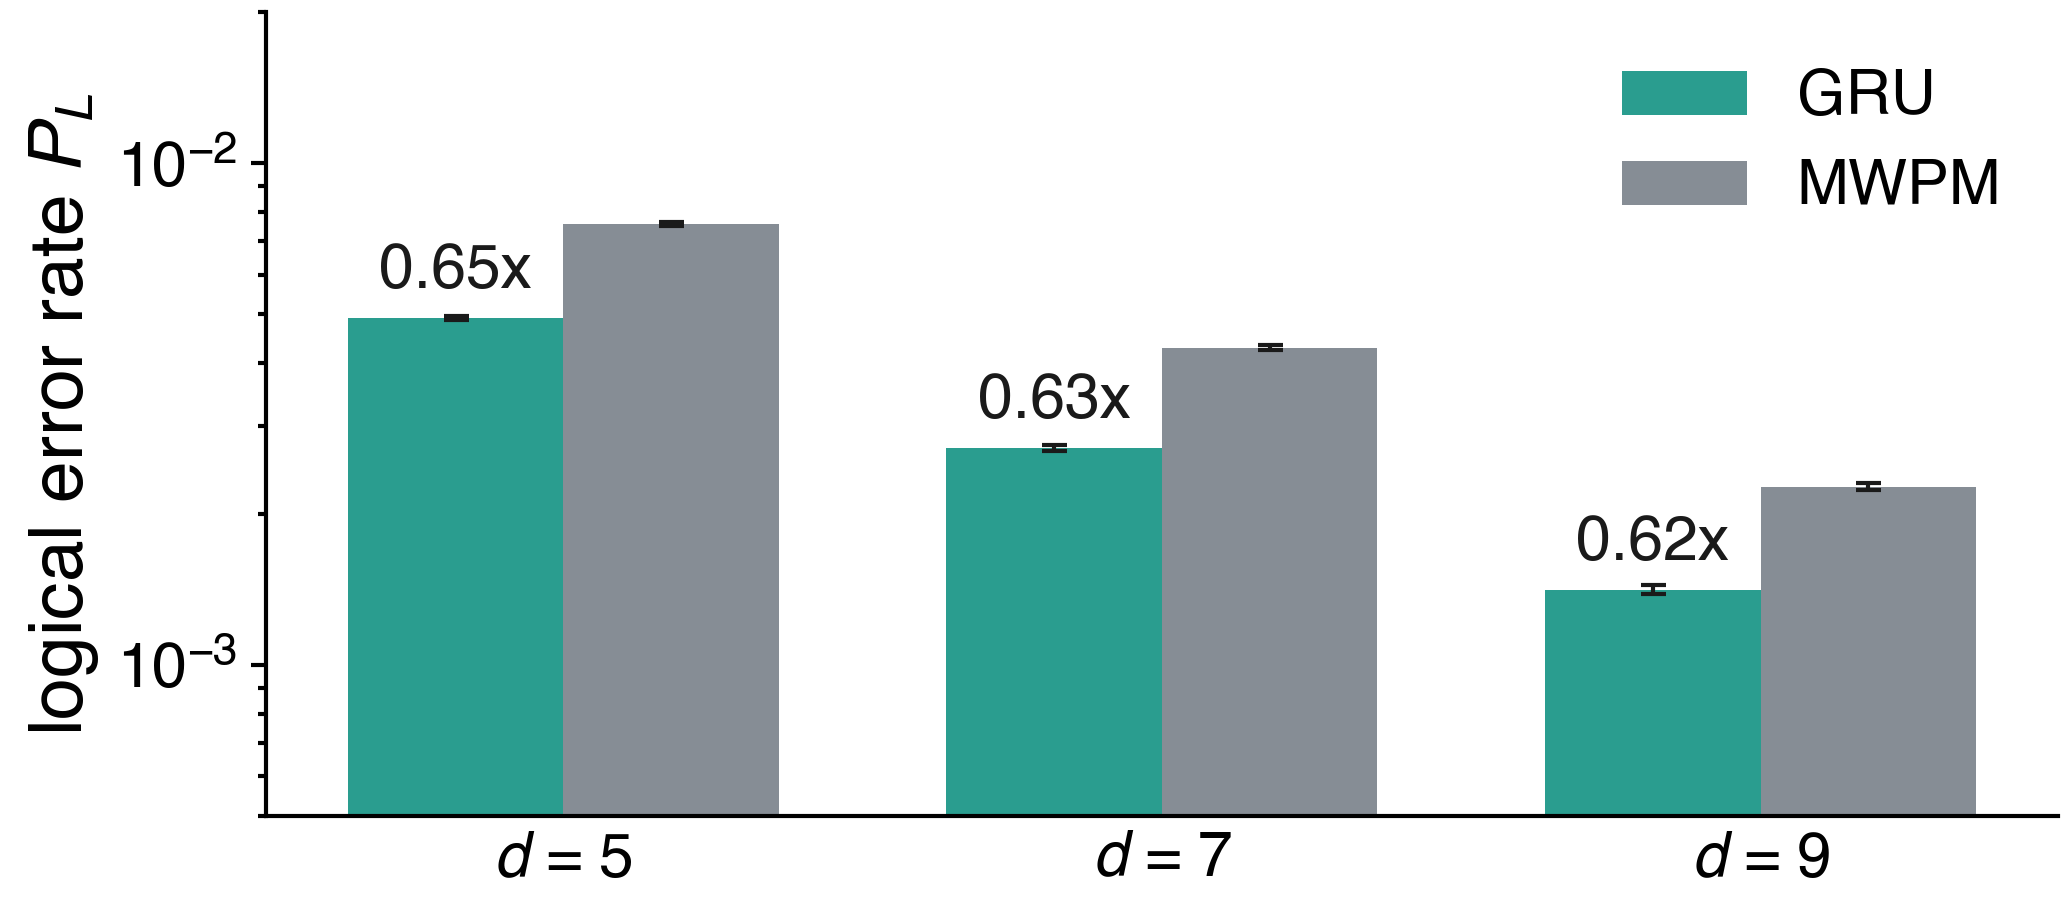
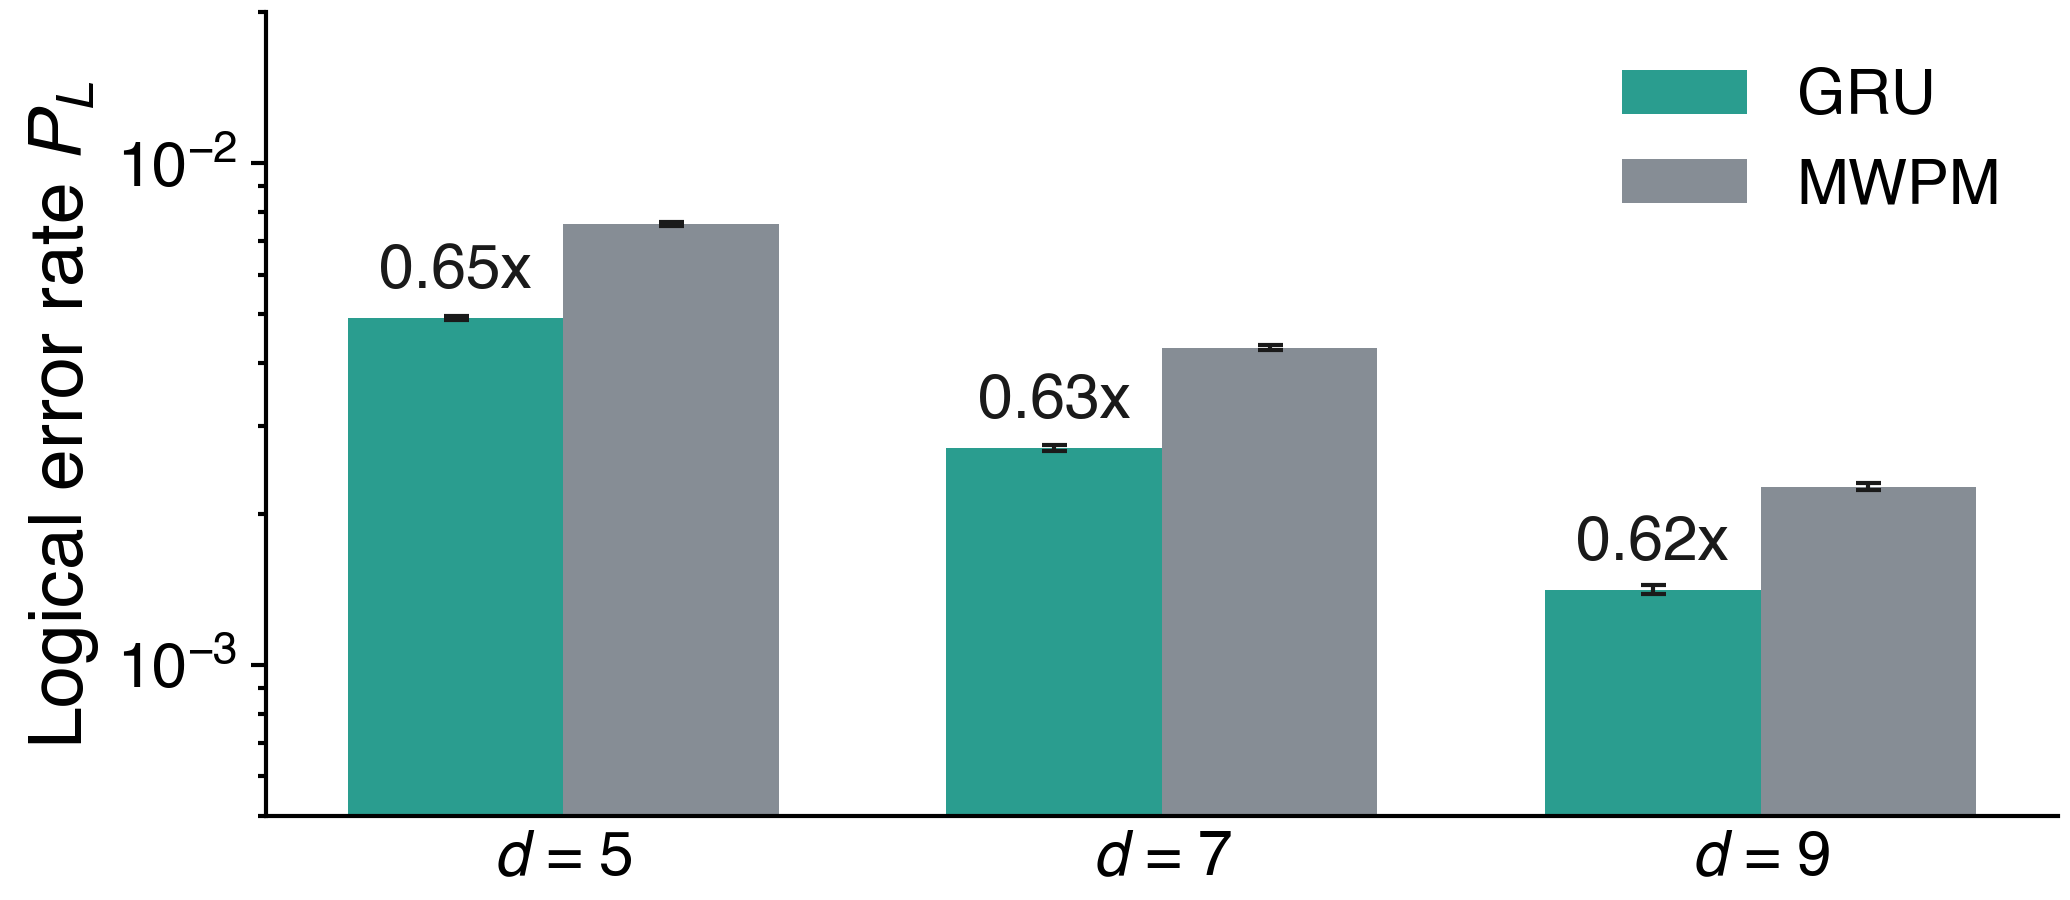
Poster figures: sentence-case axis labels; fig7 small-panel fonts and same-size bracket

diff --git a/figures/fig7_depth.py b/figures/fig7_depth.py
@@ -1,5 +1,5 @@
 # Created: 2026-10-28
-# Last modified: 2026-10-28
+# Last modified: 2026-10-28 (small-panel font sizes, same-size bracket, MWPM label left, sentence-case labels)
 # Poster version of depth_scaling.py: d = 7, p = 0.004, u70 stacks L = 1-10 and the single-layer
 # u172 / u255 runs matched to L = 4 / 8 in parameters. Eval-block ratios to MWPM on the same shots.
 #   python figures/fig7_depth.py
@@ -20,6 +20,8 @@ L1_PARAMS, PER_LAYER = 25061, 29610   # u70 stack at d = 7
 MATCH_OFFSET = 0.3                    # matched squares drawn just right of their L
 FRAME_IN = (4.5, 3.0)
 MARKER_MS = 6
+LABEL_PT, TICK_PT, NOTE_PT = 13, 11, 11   # smaller than poster_style: this panel is 4.5 in wide
+BRACKET_X = 8.62
 
 
 def load():
@@ -42,20 +44,22 @@ def plot(rows):
         x = r["L"] + MATCH_OFFSET
         ax.errorbar(x, r["ratio"], yerr=r["err"], fmt="s", ms=MARKER_MS + 1, mfc="white", mew=1.5,
                     color=poster_style.NEUTRAL, elinewidth=1, zorder=3)
-        ax.annotate(r["Width"], (x, r["ratio"]), xytext=(6, 0), textcoords="offset points",
-                    va="center", color=poster_style.NEUTRAL, fontsize=poster_style.CURVE_LABEL_PT)
+        # upper left of the square: above it would touch the MWPM line, right of u255 is the bracket
+        ax.annotate(r["Width"], (x, r["ratio"]), xytext=(-MARKER_MS, 1), textcoords="offset points",
+                    ha="right", va="bottom", color=poster_style.NEUTRAL, fontsize=NOTE_PT)
 
     l8 = next(r for r in stack if r["L"] == 8)
     u255 = next(r for r in rows if r["Width"] == "u255")
-    # the L = 8 / u255 gap is too small to hold text, so the label sits above with an arrow into it
-    ax.annotate("deep beats wide\nat equal parameters", (8 + MATCH_OFFSET / 2, np.sqrt(l8["ratio"] * u255["ratio"])),
-                xytext=(7.4, 2.2), ha="center", va="center", fontsize=poster_style.CURVE_LABEL_PT,
-                color=poster_style.INK, linespacing=1.0,
-                arrowprops=dict(arrowstyle="-", color=poster_style.INK, lw=0.8, shrinkA=2, shrinkB=1))
+    tick = 0.1
+    ax.plot([BRACKET_X - tick, BRACKET_X, BRACKET_X, BRACKET_X - tick],
+            [l8["ratio"], l8["ratio"], u255["ratio"], u255["ratio"]], color=poster_style.INK, lw=0.8)
+    # centred on the bracket's upper half so the text clears the L = 9 marker below it
+    ax.text(BRACKET_X + 0.08, (l8["ratio"] * u255["ratio"] ** 3) ** 0.25, "same size", ha="left", va="center",
+            fontsize=NOTE_PT, color=poster_style.INK)
 
     ax.axhline(1.0, color=poster_style.INK, lw=0.8, ls="--", zorder=1)
-    ax.text(1.0, 1.0, "MWPM", transform=ax.get_yaxis_transform(), ha="right", va="bottom",
-            fontsize=poster_style.CURVE_LABEL_PT, color=poster_style.INK)
+    ax.annotate("MWPM", (0, 1.0), xycoords=ax.get_yaxis_transform(), xytext=(3, 1),
+                textcoords="offset points", ha="left", va="bottom", fontsize=NOTE_PT, color=poster_style.INK)
 
     ax.set_yscale("log")
     ax.set_ylim(0.6, 4.5)
@@ -66,11 +70,11 @@ def plot(rows):
     ax.set_xlim(0.5, 10.9)
     ax.set_xticks([1, 2, 4, 6, 8, 10])
     ax.set_xlabel("GRU layers $L$")
-    ax.set_ylabel("$P_L$ / MWPM")
+    ax.set_ylabel("Error ratio (GRU / MWPM)")
     top = ax.secondary_xaxis("top", functions=(lambda L: (L1_PARAMS + PER_LAYER * (L - 1)) / 1e3,
                                                lambda k: (k * 1e3 - L1_PARAMS) / PER_LAYER + 1))
     top.set_xticks([25, 100, 200, 290])
-    top.set_xlabel("parameters (thousands)")
+    top.set_xlabel("Parameters (k)")
     fig.tight_layout(pad=0.3)
     return fig
 
@@ -78,6 +82,7 @@ def plot(rows):
 if __name__ == "__main__":
     path, rows = load()
     poster_style.apply()
+    plt.rcParams.update({"axes.labelsize": LABEL_PT, "xtick.labelsize": TICK_PT, "ytick.labelsize": TICK_PT})
     fig = plot(rows)
     POSTER.mkdir(parents=True, exist_ok=True)
     fig.savefig(POSTER / "fig7_depth.png", dpi=300, facecolor="white")

diff --git a/figures/threshold_figure.py b/figures/threshold_figure.py
@@ -1,5 +1,5 @@
 # Created: 2026-10-27
-# Last modified: 2026-10-28 (finite-size scaling collapse inset, PNGs to figures/poster; curve labels instead of distance legend, DIST colours; poster style: Helvetica, 18/15 pt; distance palette; d9 p=0.003 star removed; fit lines clipped to each d's data range)
+# Last modified: 2026-10-28 (sentence-case axis labels; finite-size scaling collapse inset, PNGs to figures/poster; curve labels instead of distance legend, DIST colours; poster style: Helvetica, 18/15 pt; distance palette; d9 p=0.003 star removed; fit lines clipped to each d's data range)
 # Threshold figure: MWPM logical error rate vs p from the sinter sweep, GRU test-set results
 # as stars. Every point is a counted simulation result; the dashed fit lines are a guide only.
 #   python figures/threshold_figure.py
@@ -165,8 +165,8 @@ def plot(points, stars, a_fit, p_th):
     x_ticks = [0.001, 0.002, 0.004, 0.008, 0.015]
     ax.set_xticks(x_ticks)
     ax.set_xticklabels([f"{t:g}" for t in x_ticks])
-    ax.set_xlabel("physical error rate $p$")
-    ax.set_ylabel("logical error rate $P_L$")
+    ax.set_xlabel("Physical error rate $p$")
+    ax.set_ylabel("Logical error rate $P_L$")
     fig.tight_layout()
     return fig
 

diff --git a/figures/ratio_map.py b/figures/ratio_map.py
@@ -1,5 +1,5 @@
 # Created: 2026-10-28
-# Last modified: 2026-10-28
+# Last modified: 2026-10-28 (sentence-case axis labels)
 # GRU / MWPM logical error rate ratio over d x p (test-set cells, the threshold figure's stars),
 # and the suppression factor Lambda at p = 0.004 for both decoders.
 #   python figures/ratio_map.py
@@ -61,8 +61,8 @@ def plot(cells, lam):
     ax.set_yticks(range(len(DISTANCES)))
     ax.set_yticklabels([str(d) for d in DISTANCES])
     ax.tick_params(length=0)
-    ax.set_xlabel("physical error rate $p$")
-    ax.set_ylabel("code distance $d$")
+    ax.set_xlabel("Physical error rate $p$")
+    ax.set_ylabel("Code distance $d$")
 
     x0 = 4.45 / 6.9
     fig.text(x0, 0.80, f"$\\Lambda$ at $p$ = {LAMBDA_P:g}", fontsize=poster_style.AXIS_LABEL_PT,

diff --git a/figures/gru_vs_mwpm_bars.py b/figures/gru_vs_mwpm_bars.py
@@ -1,5 +1,5 @@
 # Created: 2026-10-27
-# Last modified: 2026-10-27
+# Last modified: 2026-10-28 (sentence-case axis label)
 # GRU vs MWPM logical error rate at p = 0.004, d = 5, 7, 9: the selected checkpoints' test-set
 # results (1.8M shots, MWPM on the same shots), the same rows as the threshold figure's stars.
 #   python figures/gru_vs_mwpm_bars.py
@@ -41,7 +41,7 @@ def plot(rows):
     ax.set_xticks(x)
     ax.set_xticklabels([f"$d$ = {r['d']}" for r in rows])
     ax.tick_params(axis="x", length=0)
-    ax.set_ylabel("logical error rate $P_L$")
+    ax.set_ylabel("Logical error rate $P_L$")
     ax.legend(loc="upper right", frameon=False)
     for side in ("top", "right"):
         ax.spines[side].set_visible(False)
